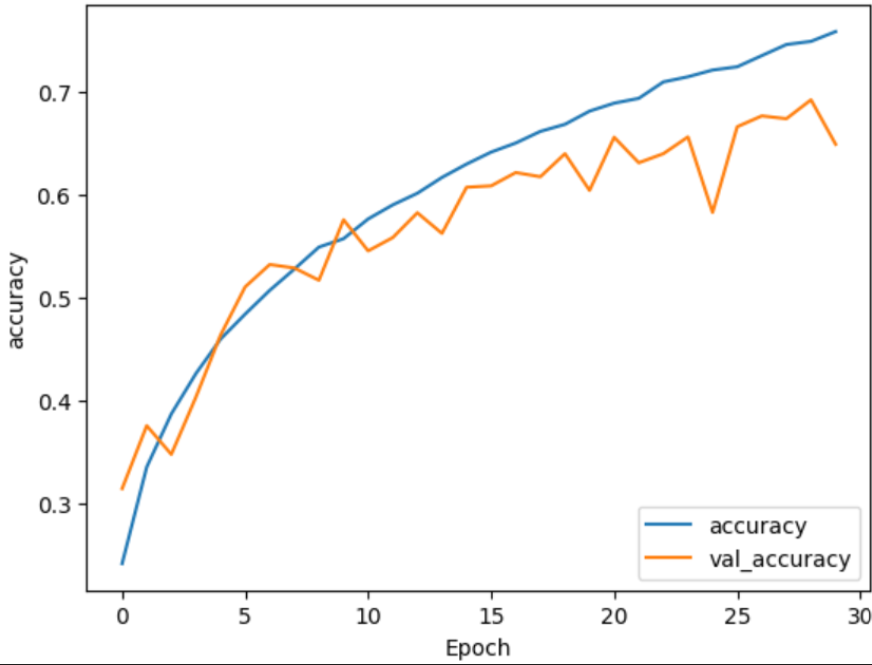
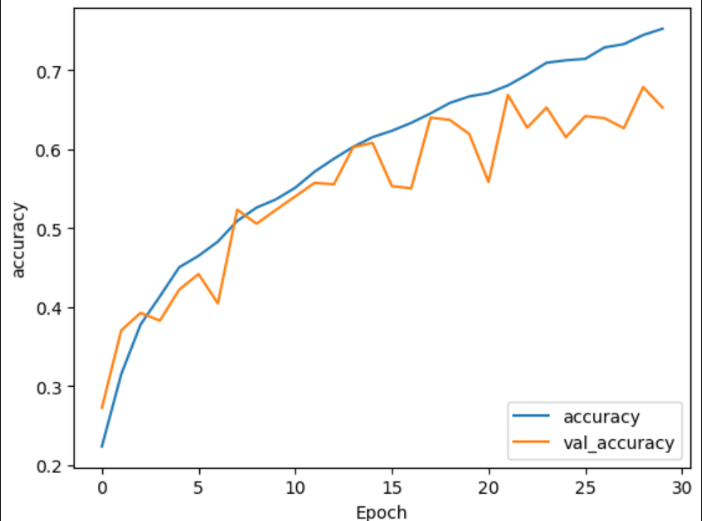
Update paper and associated references
Corrected typos and clarified details throughout the paper. Modified the methodology and findings sections, improving accuracy statistics and explanations. Updated the bibliography to include a new reference on multi-class image classification using TensorFlow.

Changed region(s): [[0.0, 0.0, 1.0, 1.0], [0.8675, 0.0614, 0.9274, 0.0921]]

diff --git a/project/paper.tex b/project/paper.tex
@@ -26,7 +26,7 @@
     Group Members: \\
     Farooq Mahmud
 }
-\date{September 20, 2024}
+\date{September 28, 2024}
 
 \begin{document}
 
@@ -35,7 +35,7 @@
 \section{Introduction}
 Deep learning models, particularly Convolutional Neural Networks, have made great strides in solving complex computer vision tasks such as image classification. Among the key advancements in this area is the Inception architecture, introduced by Szegedy et al. (2015) in the paper "Going Deeper with Convolutions." This architecture was designed to balance computational efficiency with improved classification accuracy. This architecture achieved winning results in the ImageNet Large-Scale Visual Recognition Challenge (ILSVRC) in 2014. The primary innovation of the Inception architecture is its use of multi-scale feature extraction and dimensionality reduction, which allows it to increase network depth and width without excessive computational overhead\cite{szegedy2015going}.
 
-This paper aims to replicate the results presented by Szegedy et al., critically assess the impact of the Inception architecture, and test its performance on an alternative dataset. We attempt to reproduce the GoogLeNet model by writing our own Python implementation using the Tensorflow library. Our implementation is evaluated on both a subset of the ImageNet dataset and a secondary dataset, CIFAR-10, to assess its generalization capability. Through this replication and exploration, we seek to validate the core contributions of the Inception model, gain a deeper undertanding of convolutional neural networks, and an appreciation of the associated challenges.
+This paper aims to replicate the results presented by Szegedy et al., critically assess the impact of the Inception architecture, and test its performance on an alternative dataset. We attempt to reproduce the GoogLeNet model by writing our own Python implementation using the Tensorflow library. Our implementation is evaluated on both a subset of the ImageNet dataset and a secondary dataset, CIFAR-10, to assess its generalization capability. Through this replication and exploration, we seek to validate the core contributions of the Inception model, gain a deeper understanding of convolutional neural networks, and an appreciation of the associated challenges.
 
 
 \section{Background}
@@ -45,7 +45,7 @@ GoogLeNet introduced a novel approach to convolutional neural networks by stacki
 The Inception module aims to mitigate computational costs by including 1x1 convolutions for dimensionality reduction before performing the larger convolution operations. This was one of the key innovations that made GoogLeNet both efficient and powerful, despite being deeper than previous CNN architectures such as AlexNet and VGGNet~\cite{krizhevsky2012imagenet, simonyan2015vgg}.
 
 \subsubsection{Inception Architecture}
-The Inception architecture was introduced to address two primary challenges in CNNs: improving model accuracy while maintaining computational efficiency. Szegedy et al. proposed a novel structure called the Inception module, which incorporates parallel convolutional filters of different sizes (1x1, 3x3, and 5x5) along with max-pooling. The key advantage of this approach is that it allows the network to capture features at multiple scales simultaneously, enhancing the model's ability to learn complex spatial hierarchies within images.
+The Inception architecture was introduced to address the primary challenge in convolutional neural networks- improving model accuracy while maintaining computational efficiency. Szegedy et al. proposed a novel structure called the Inception module, which incorporates parallel convolutional filters of different sizes (1x1, 3x3, and 5x5) along with max-pooling. The key advantage of this approach is that it allows the network to capture features at multiple scales simultaneously, enhancing the model's ability to learn complex spatial hierarchies within images.
 
 Another major innovation was the use of 1x1 convolutions for dimensionality reduction. By applying 1x1 filters before 3x3 and 5x5 convolutions, the Inception module significantly reduces the number of parameters and computational cost without sacrificing accuracy. This strategy enables the network to be deeper and wider without a substantial increase in computational complexity.
 
@@ -62,7 +62,7 @@ The Inception architecture was implemented in a 22-layer deep network, GoogLeNet
 \section{Methodology}
 
 \subsection{Image Selection}
-The Imagenet dataset contains over 1 million images with a size of over 1TB. Processing this amount of data would not be practical given the available coumputing power. In order to make processing possible in a reasonable timeframe, a subset of the Imagenet images was downloaded. The subsets, or \textit{synsets} map to the CIFAR-10 image classes as shown in Table \ref{tab:synsets}.
+The ImageNet dataset contains over 1 million images with a size of over 1TB. Processing this amount of data would not be practical given the available computing power. In order to make processing possible in a reasonable time frame, a subset of the ImageNet images was downloaded. The subsets, or \textit{synsets} map to the CIFAR-10 image classes as shown in Table \ref{tab:synsets}.
 
 \begin{table}[ht]
     \centering
@@ -80,11 +80,11 @@ The Imagenet dataset contains over 1 million images with a size of over 1TB. Pro
     n04194289 & ship \\ \hline
     n04467665 & truck \\ \hline
     \end{tabular}
-    \caption{Imagenet synset to CIFAR-10 class mapping}
+    \caption{Mapping ImageNet synsets to CIFAR-10 classes}
     \label{tab:synsets}
 \end{table}
 
-The resulting download consists of 14,738 files with a total size of 1.3GB. Scaling the images to 224 x 224 pixels, the dimensions used by Szegedy, et. al. decreased the size to a manageable 137MB.
+The resulting download consists of 14,738 files with a total size of 1.3GB. Scaling the images to 224 x 224 pixels, the dimensions used by Szegedy, et al. decreased the size to a manageable 137MB.
 
 After scaling, 100 images from each class were set aside to use for evaluating the trained model.
 
@@ -93,7 +93,8 @@ Training and validation sets were created in-situ using Tensorflow's \textt{imag
 The networks mentioned in this report were training on an NVIDIA Quadro P2000 GPU having 5GB of dedicated memory.
 
 \subsection{A Simplified GoogLeNet Network}
-Before constructing a complex model like GoogLeNet, it is a good idea to use a simple network as a baseline. This network is shown in Figure \ref{fig:cnn-simple}. This network is conceptually similar to GoogLeNet but without the complexity of the Inception modules. At it's core, the GoogLeNet architecture stacks multiple convolutional layers before downsampling through pooling. Stacking multiple layers helps networks capture progressively more complex features, improves generalization, and increases performance while keeping computational cost from getting out of hand. This is a common design pattern in many successful image classification networks\cite{simonyan2014very}.
+\label{subsec:simple_model}
+Before constructing a complex model like GoogLeNet, it is a good idea to use a simple network as a baseline. This network is shown in Figure \ref{fig:cnn-simple}. This network is conceptually similar to GoogLeNet but without the complexity of the Inception modules. At it's core, the GoogLeNet architecture stacks multiple convolutional layers before down sampling through pooling. Stacking multiple layers helps networks capture progressively more complex features, improves generalization, and increases performance while keeping computational cost from getting out of hand. This is a common design pattern in many successful image classification networks\cite{simonyan2014very}.
 
 The architecture of this network was informed by the following constraints:
 \begin{itemize}
@@ -113,19 +114,7 @@ These constraints were the reason why the filter depths range from 32 to 256.
 
 This simple model, when trained for 30 epochs, achieved a maximum accuracy of 57.2\% at Epoch 23 as shown in Figure \ref{fig:googlenet-simple-accuracy}.
 
-The validation accuracy and training accuracy track well, indicating a lack of overfitting. Applying data augmentation to the training set mitigates overfitting, especially with the smaller dataset. The augmentation code is shown in Listing \ref{lst:augmentation}
-
-\begin{lstlisting}[caption={Augmentation code}, label={lst:augmentation}]
-augmentation = tf.keras.Sequential([
-    layers.RandomFlip("horizontal"),
-    layers.RandomRotation(0.1),
-    layers.RandomZoom(0.2),
-])
-
-# Apply the augmentation only on the training dataset
-train_dataset = train_dataset.map(lambda x, y: (augmentation(x, training=True), y))
-\end{lstlisting}
-
+The validation accuracy and training accuracy track well, indicating a lack of overfitting. Applying data augmentation to the training set mitigates overfitting, especially with the smaller dataset.
 \begin{figure}[ht]
     \centering
     \includegraphics[scale=0.7]{project/paper_images/googlenet_simple_accuracy.png}
@@ -134,7 +123,9 @@ train_dataset = train_dataset.map(lambda x, y: (augmentation(x, training=True), 
 \end{figure}
 
 \subsection{Replicating the GoogLeNet Network}
-The GoogLeNet architecture is explained in tabular form in Table 1 in the Szegedy paper and is reproduced in Figure \ref{fig:googlenet-arch}. The introduction of Inception layers having parallel convolutional filters is the primary difference from typical sequential networks. The replication attempt, when trained for 30 epochs, achieved a maximum accuracy of 56.9\%. This is essentialy the same as the simple network. The upshot is that it only took 8 epochs to arrive at the maximum accuracy as shown in Figure \ref{fig:googlenet-complex-accuracy}. Nevertheless, both models are nowhere near the accuracy of the model in the Szegedy paper. Their model achieved a top-5 error rate of only 6.7\%. While the paper does not mention the accuracy, it is not a leap to assume that the accuracy was well above the accuracy in the replication attempt. The network is graphically depicted in Figure \ref{fig:googlenet-complex}
+The GoogLeNet architecture is explained in Table 1 of the Szegedy paper is reproduced in Figure \ref{fig:googlenet-arch}. The introduction of Inception layers having parallel convolutional filters is the primary difference from typical sequential networks. The replication attempt, when trained for 30 epochs, achieved a maximum accuracy of 60.3\%. This is quite improved over the simple model. The other impressive aspect is that it only took 14 epochs to arrive at the maximum accuracy as shown in Figure \ref{fig:googlenet-complex-accuracy}. The conclusion is that the architecture does provide marked improvements over the simpler, more naive model described in \ref{subsec:simple_model}.
+
+Nevertheless, this model is nowhere near the accuracy of the model in the Szegedy paper. Their model achieved a top-5 error rate of only 6.7\%. While the paper does not mention the accuracy, it is not a leap to assume that the accuracy was well above the accuracy in the replication attempt. We are optimistic, however, that our implementation is sound and that with a larger dataset, the accuracy can be improved and approach the accuracy achieved by Szegedy et. al. The network is graphically depicted in Figure \ref{fig:googlenet-complex}
 
 \begin{figure}[ht]
     \centering
@@ -146,7 +137,7 @@ The GoogLeNet architecture is explained in tabular form in Table 1 in the Szeged
 \begin{figure}[ht]
     \centering
     \includegraphics[scale=0.7]{project/paper_images/googlenet_complex_accuracy.png}
-    \caption{Accuracy of the simplified version of the GoogLeNet network}
+    \caption{Accuracy of GoogLeNet network reproduction}
     \label{fig:googlenet-complex-accuracy}
 \end{figure}
 
@@ -160,7 +151,7 @@ The GoogLeNet architecture is explained in tabular form in Table 1 in the Szeged
 \subsection{Model Evaluation}
 Both networks were evaluated using two sets of images. The first is the 1,000 ImageNet images set aside prior to model training. The second set is sourced from the CIFAR-10 dataset\cite{kim_cifar10_images}. The CIFAR-10 dataset contains 1,000 32x32 RGB images.
 
-\subsubsection{Performance On Unseen Imagenet Images}
+\subsubsection{Performance On Unseen ImageNet Images}
 100 images from each class was set aside in order to evaluate the performance of the two models on unseen images. The accuracy of the two models is shown in \ref{tab:perf-unseen-imagenet}.
 
 \begin{table}[ht]
@@ -169,7 +160,7 @@ Both networks were evaluated using two sets of images. The first is the 1,000 Im
     \hline
     \textbf{Model} & \textbf{Accuracy} \\ \hline
     Simple & 58.1\% \\ \hline
-    GoogLeNet Reproduction & ??? \\ \hline
+    GoogLeNet Reproduction & 66.2\% \\ \hline
     \end{tabular}
     \caption{Models' performance on unseen ImageNet images}
     \label{tab:perf-unseen-imagenet}
@@ -180,6 +171,8 @@ The simpler model's accuracy of 58.1\% on the test set is slightly better than t
 Furthermore, the relatively small difference in training accuracy and evaluation accuracy indicates that the model has managed to avoid overfitting. Overfitting typically results in high training accuracy but significantly lower evaluation accuracy. The fact that the model's test accuracy is slightly higher than its training accuracy can be attributed to augmentation done on the training set but not the evaluation set.
 
 On the other hand, the 58.1\% accuracy also indicates that there is room for improvement, suggesting that the model might benefit from more complexity or further tuning.
+
+The GoogLeNet reproduction resulted in a 66.2\% accuracy on unseen ImageNet images. The higher accuracy of this model can be attributed to the same reasons as the simpler model. In this case, additional complexity did provide a marked increase in accuracy. There is cause for optimism that a result closer to what was achieved by Szegedy, et al. could be matched with a larger training set.
 
 
 
@@ -198,11 +191,13 @@ The CIFAR-10 dataset consists of 1,000 32x32 RGB images (100 images per class). 
     \label{tab:perf-unseen-imagenet}
 \end{table}
 
-The low accuracy of 21.4\% achieved by the simple model could be for several reasons. First, the models were trained on images having a relatively high resolution compared to CIFAR-10's 32x32 images. When models are trained on larger images, the models learn to identify fine-grained details which can become indistinguishable when downscaled to much smaller dimensions~\cite{simonyan2015vgg}.
+The low accuracy of 21.4\% achieved by the simple model could be for several reasons. First, the models were trained on images having a relatively high resolution compared to CIFAR-10's 32x32 images. When models are trained on larger images, the models learn to identify fine-grained details which can become indistinguishable when down scaled to much smaller dimensions~\cite{simonyan2015vgg}.
 
-Additionally, the convolutional filters in the models are likely too large for the small CIFAR-10 images, causing the network to miss out on important features. In a 32x32 image, for instance, using large filter sizes or pooling layers can result in excessive downsampling, leading to a significant loss of spatial information, which ultimately hampers the model's ability to classify the images accurately.
+Additionally, the convolutional filters in the models are likely too large for the small CIFAR-10 images, causing the network to miss out on important features. In a 32x32 image, for instance, using large filter sizes or pooling layers can result in excessive down sampling, leading to a significant loss of spatial information, which ultimately hampers the model's ability to classify the images accurately.
 
-Finally, CIFAR-10, like ImageNet, contains complex image classes, which are often difficult to distinguish at such a low resolution. The limited information provided by 32x32 images presents additional challenges for models trained on high-resolution images, as they may rely on more detailed textures and edges, which are not as pronounced in low-resolution images~\cite{krizhevsky2012imagenet}.
+CIFAR-10, like ImageNet, contains complex image classes, which are often difficult to distinguish at such a low resolution. The limited information provided by 32x32 images presents additional challenges for models trained on high-resolution images, as they may rely on more detailed textures and edges, which are not as pronounced in low-resolution images~\cite{krizhevsky2012imagenet}.
+
+Finally, Tensorflow up scales the images to 224 x 224 which surely results in a tremendous loss of fidelity. The fact that the accuracy is not lower is impressive when considering this loss of fidelity.
 
 
 \subsection{Challenges}
@@ -210,15 +205,15 @@ The Inception architecture's key contribution is its ability to balance computat
 
 In our reproduction, the model's performance on the ImageNet dataset was not  close to the results reported in the original paper. This is not an indictment on the effectiveness of the architecture, however. Rather, the small dataset size could be a factor. Additionally, our interpretation of the Inception modules to code could have variations from the code used by Szegedy et al.
 
-One of the challenges we encountered was the high computational demand of training, event on the subset of ImageNet images we used. Although GoogLeNet is more efficient than many of its contemporaries, training still required GPU resources. We used data augmentation techniques, such as random cropping, random horizontal flipping, and random zoom to avoid overfitting. We also needed to reduce the learning rate to 0.0001, reduced batch size to 16, and enabled memory growth\cite{tensorflow_memory_growth} so as not to overwhelm the GPU. Prefetching was also implemented to improve performance\cite{tensorflow_data_performance}. The training performance is summarized in Table \ref{tab:training_times}
+One of the challenges we encountered was the high computational demand of training, event on the subset of ImageNet images we used. Although GoogLeNet is more efficient than many of its contemporaries, training still required GPU resources. We used data augmentation techniques, such as random cropping, random horizontal flipping, and random zoom to avoid overfitting\cite{dishasai_multiclass_classification}. We also needed to reduce the learning rate to 0.0001, reduced batch size to 16, and enabled memory growth\cite{tensorflow_memory_growth} so as not to overwhelm the GPU. Prefetching was also implemented to improve performance\cite{tensorflow_data_performance}. The training performance is summarized in Table \ref{tab:training_times}. From the training times, it should be readily apparent why a subset of the ImageNet images were chosen and that training the whole dataset would take an inordinate amount of time with the compute resources we had access to.
 
 \begin{table}[ht]
     \centering
     \begin{tabular}{llll}
     \hline
     \textbf{Model} & \textbf{Batch size} & \textbf{Epochs} & \textbf{Training time (minutes)} \\  \hline
-    Simple & 16 & 30 & 73 \\ \hline
-    Complex & 16 & 30 & 69 \\ \hline
+    Simple & 16 & 30 & 58 \\ \hline
+    Complex & 16 & 30 & 64 \\ \hline
     \end{tabular}
     \caption{Training times}
     \label{tab:training_times}
